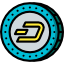
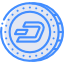
add new styles for main part of app

diff --git a/css/main.css b/css/main.css
@@ -1,0 +1,188 @@
+
+.information{
+
+    height: 100px;
+    border-radius: 7px;
+    width: 95%;
+    margin: auto;
+    margin-top: 20px;
+}
+
+
+.btc{
+    background-color: #926319;
+    border: 2px solid #ff9900;
+}
+
+
+.btcColor{
+    box-shadow:
+            inset 0 0 0 0 #926319,
+            inset 0 0 0 16px #ff9900,
+            0 1px 2px rgba(0,0,0,0.1);
+}
+
+
+.currencyRBtc:active {
+    box-shadow: inset 0 0 0 110px rgba(200, 95, 66, 0.4),
+    inset 0 0 0 16px rgba(255, 255, 255, 0.8),
+    0 1px 2px rgba(0, 0, 0, 0.1);
+}
+
+
+.dash{
+    background-color: #275e8c;
+    border: 2px solid #278ee5;
+}
+
+.dashColor{
+    box-shadow:
+            inset 0 0 0 0 #275e8c;,
+            inset 0 0 0 16px #278ee5;,
+            0 1px 2px rgba(0,0,0,0.1);
+}
+
+.currencyRDash:active {
+    box-shadow: inset 0 0 0 110px #275e8c,
+    inset 0 0 0 16px #278ee5,
+    0 1px 2px rgba(0, 0, 0, 0.1);
+}
+
+
+.eth{
+    background-color: #7f8385;
+    border: 2px solid #d8d8d8;
+}
+
+
+.ethColor{
+    box-shadow:
+            inset 0 0 0 0 #7f8385,
+            inset 0 0 0 16px #d8d8d8,
+            0 1px 2px rgba(0,0,0,0.1);
+}
+
+
+.currencyREth:active {
+    box-shadow: inset 0 0 0 110px #7f8385,
+    inset 0 0 0 16px #d8d8d8,
+    0 1px 2px rgba(0, 0, 0, 0.1);
+}
+
+ltc{
+    background-color: #6b6e70;
+    border: 2px solid #aeaeae;
+}
+
+
+ltcColor{
+    box-shadow:
+            inset 0 0 0 0 #6b6e70,
+            inset 0 0 0 16px #aeaeae,
+            0 1px 2px rgba(0,0,0,0.1);
+}
+
+.currencyRLtc:active {
+    box-shadow: inset 0 0 0 110px #6b6e70,
+    inset 0 0 0 16px #aeaeae,
+    0 1px 2px rgba(0, 0, 0, 0.1);
+}
+
+
+
+.information:hover{
+    border: 3px solid #ff9900;
+    width: 98%;
+    transition: all 0.4s ease-in-out;
+}
+
+
+.information img{
+    display: block;
+    height: 100px;
+    float: left;
+    margin-left: 2%;
+}
+
+.more{
+    float: left;
+    font-size: 1.3em;
+    color: aliceblue;
+    margin-left: 30px;
+}
+
+.money{
+    margin-top: 10px;
+    float: right;
+    margin-left: 300px ;
+}
+
+.info{
+    float:left;
+    margin-top: 10px;
+}
+
+
+
+
+.refresh {
+    float: right;
+    margin-right:2%;
+    border-radius: 50%;
+    position: relative;
+    cursor: pointer;
+    transition: all 0.2s ease-in-out;
+}
+
+
+.currency {
+    background-size: 100%;
+    width: 100px;
+    height: 100px;
+}
+
+.currencyRBtc {
+    background-image: url(../img/btcR.png);
+}
+
+.currencyRLtc {
+    background-image: url(../img/ltcR.png);
+}
+
+.currencyREth {
+    background-image: url(../img/ethR.png);
+}
+
+.currencyRDash {
+    background-image: url(../img/dashR.png);
+}
+
+
+.location{
+    display: block;
+    float: left;
+    margin-left: 2%;
+}
+
+
+.currencyBtc{
+    background-image: url(../img/btc.png);
+
+}
+
+.currencyLtc{
+    background-image: url(../img/ltc.png);
+}
+
+.currencyDash{
+    background-image: url(../img/dash.png);
+}
+
+.currencyEth{
+    background-image: url(../img/eth.png);
+}
+
+
+
+
+

diff --git a/index.html b/index.html
@@ -4,6 +4,7 @@
     <meta charset="UTF-8">
     <title>Crypto Holder</title>
     <link rel="stylesheet" href="css/styles.css">
+    <link rel="stylesheet" href="css/main.css">
 
 </head>
 <body>
@@ -45,6 +46,40 @@
 
         </ul>
     </header>
+
+
+    <div class = 'main'>
+        <div class = 'information btc'>
+
+            <!--<img src='img/btc.png'>-->
+            <div class = 'currencyBtc currency location'></div>
+            <div class="more">
+
+                <div class = 'money'>
+                    <span class = 'balanc'>Баланс</span><br><br>
+                    <span class ='dollar'>Эквивалент в долларах</span>
+                </div>
+
+
+                <div class = 'info'>
+                    <span class='name'>Имя кошелька</span><br><br>
+                    <span class='number'>Номер кошелька</span>
+
+                </div>
+
+
+            </div>
+
+
+
+            <div class="refresh currency currencyRBtc">
+                <div class="ch-info">
+
+                </div>
+            </div>
+        </div>
+
+    </div>
 
 
 
